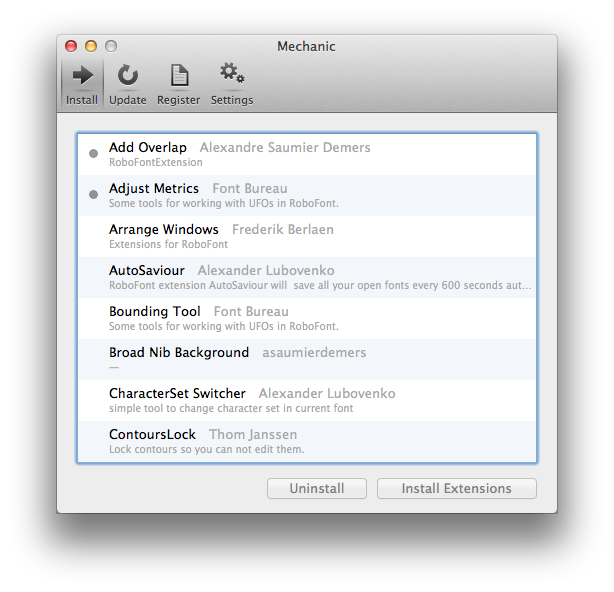
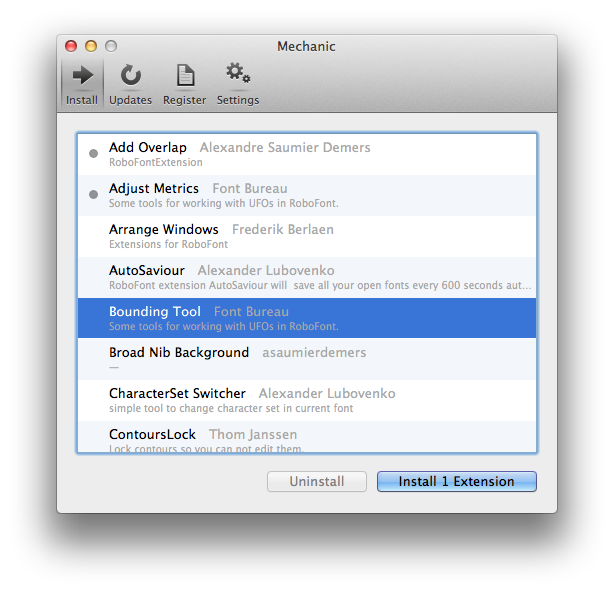
shoehorn in screenshot generation helpers

diff --git a/src/lib/mechanic/ui/windows/notification.py b/src/lib/mechanic/ui/windows/notification.py
@@ -11,6 +11,7 @@ from mechanic.ui.windows.base import BaseWindow
 
 
 class UpdateNotificationWindow(BaseWindow):
+    window_size = (520, 130)
     window_title = "Extension Updates"
 
     @classmethod
@@ -21,10 +22,8 @@ class UpdateNotificationWindow(BaseWindow):
     def __init__(self, force=False):
         super(UpdateNotificationWindow, self).__init__()
 
-        skip_patches = bool(Storage.get('ignore_patch_updates'))
-
         try:
-            self.updates = Update.all(force, skip_patches=skip_patches)
+            self.updates = self.get_updates(force)
         except Update.ConnectionError:
             print "Mechanic: Couldn't connect to the internet"
             return
@@ -76,6 +75,10 @@ class UpdateNotificationWindow(BaseWindow):
         self.w.image = ImageView((15, 15, 80, 80), scale='fit')
         self.w.image.setImage(imageObject=image)
 
+    def get_updates(self, force):
+        skip_patches = bool(Storage.get('ignore_patch_updates'))
+        return Update.all(force, skip_patches=skip_patches)
+
     @property
     def title(self):
         text = "Updates are available for %d of your extensions."
@@ -85,4 +88,4 @@ class UpdateNotificationWindow(BaseWindow):
     @property
     def explanation(self):
         text = "If you don't want to update now, choose Extensions > Mechanic > Updates when you're ready to install."
-        Font.string(text=text, size=11)
+        return Font.string(text=text, size=11)

diff --git a/src/lib/mechanic/ui/windows/base.py b/src/lib/mechanic/ui/windows/base.py
@@ -3,10 +3,11 @@ from defconAppKit.windows.baseWindow import BaseWindowController
 
 
 class BaseWindow(BaseWindowController):
+    window_size = (500, 300)
 
     def __init__(self, active="Install"):
         self.first_tab = active
-        self.w = Window((500,300),
+        self.w = Window(self.window_size,
                         autosaveName=self.__class__.__name__,
                         title=self.window_title)
 
@@ -44,6 +45,11 @@ class BaseWindow(BaseWindowController):
 
     def set_window_size(self, tab):
         self.w.resize(tab.tabSize[0], tab.tabSize[1], False)
+
+    @property
+    def current_tab(self):
+        index = self.w.tabs.get()
+        return self.w.tabs[index]
 
     @property
     def toolbar(self):

diff --git a/bin/demo.py b/bin/demo.py
@@ -1,0 +1,15 @@
+from mechanic.registry import Registry
+from mechanic.ui.windows.main import MechanicWindow
+from mechanic.ui.windows.notification import UpdateNotificationWindow
+
+window = MechanicWindow('install')
+tab = window.current_tab.view
+table = tab.content.list
+
+table.set(Registry('http://www.robofontmechanic.com').all())
+tab.enable()
+
+def dummy_updates(self, *args, **kwargs): return ['updates']
+
+UpdateNotificationWindow.get_updates = dummy_updates
+UpdateNotificationWindow()

diff --git a/src/lib/mechanic/registry.py b/src/lib/mechanic/registry.py
@@ -6,6 +6,9 @@ from mechanic.storage import Storage
 
 class Registry(object):
 
+    def __init__(self, base_url=default_registry):
+        self.base_url = base_url
+
     def all(self):
         print "Mechanic: fetching extensions from %s..." % self.url
 
@@ -19,4 +22,4 @@ class Registry(object):
 
     @property
     def url(self):
-        return default_registry + "/api/v1/registry.json"
+        return self.base_url + "/api/v1/registry.json"

diff --git a/README.md b/README.md
@@ -5,7 +5,7 @@ Mechanic provides an interface in RoboFont for installing and updating extension
 
 https://github.com/jackjennings/Mechanic
 
-![mechanic preview](http://ja.ckjennin.gs/public/images/Mechanic-preview.png)
+![mechanic preview](screenshots/mechanic.png)
 
 Requirements
 ------------
